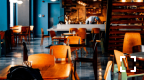
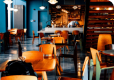
MODIFIED: modified small branch images and added watch to text field ui and added 100 quality to branch images

diff --git a/src/components/PagesComponents/Home/Branches/BranchImg.tsx b/src/components/PagesComponents/Home/Branches/BranchImg.tsx
@@ -21,10 +21,10 @@ const BranchImg = ({ alt, largeImg, smallImg }: Props) => {
         className="w-full relative h-[230px] hidden sd:block"
         variants={variant}
       >
-        <Image alt={alt} src={largeImg} fill />
+        <Image alt={alt} src={largeImg} fill quality={100} />
       </motion.div>
       <div className="w-[144px] h-full relative sd:hidden shrink-0">
-        <Image alt={alt} src={smallImg} fill />
+        <Image alt={alt} src={smallImg} fill quality={100} />
       </div>
     </>
   );

diff --git a/src/global/interfaces/interfaces.ts b/src/global/interfaces/interfaces.ts
@@ -80,6 +80,8 @@ export interface TextFieldUIProps
     FloatPlaceholder {
   /** possible types of text field */
   type?: "password" | "text";
+  /** watch is watch method from useForm. if your using FormRHF, it will be passed automatically */
+  watch?: UseFormWatch<FieldValues>;
 }
 
 export interface FormRHFProps {

diff --git a/src/components/FormUI/TextFieldUI.tsx b/src/components/FormUI/TextFieldUI.tsx
@@ -15,6 +15,7 @@ const TextFieldUI = forwardRef<HTMLInputElement, TextFieldUIProps>(
       displayError = false,
       floatPlaceholder = false,
       isRHF = false,
+      watch,
       ...props
     }: TextFieldUIProps,
     ref: Ref<HTMLInputElement>
